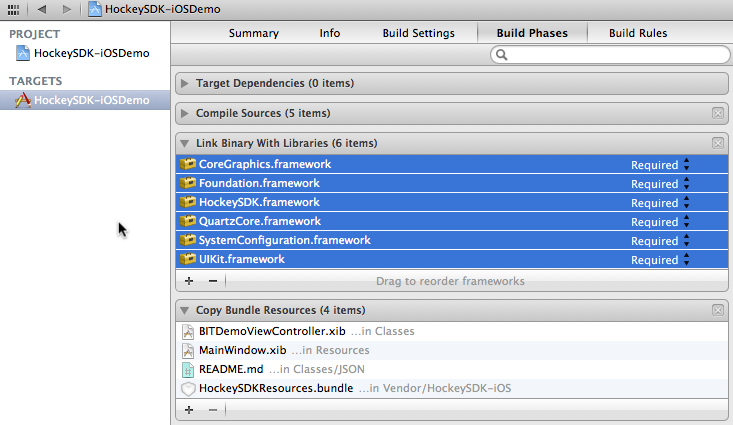
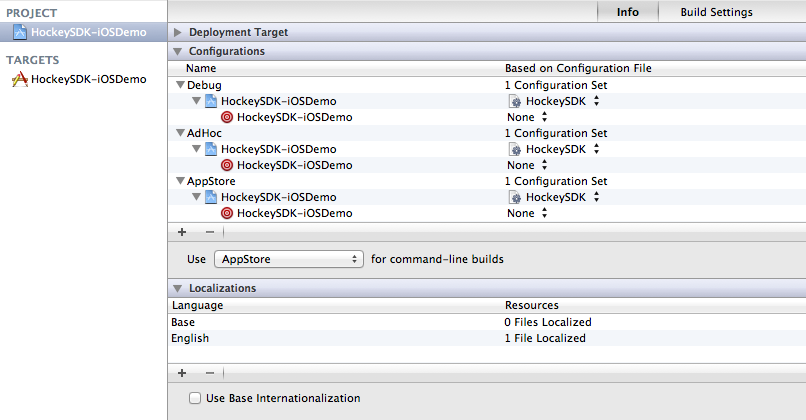
Update documentation

diff --git a/docs/Guide-Installation-Setup-template.md b/docs/Guide-Installation-Setup-template.md
@@ -16,7 +16,9 @@ This document contains the following sections:
 <a id="requirements"></a> 
 ## Requirements
 
-The SDK runs on devices with iOS 4.0 or higher.
+The SDK runs on devices with iOS 5.0 or higher.
+
+If you need support for iOS 4.x, please check out [HockeySDK v2.5.4](https://github.com/bitstadium/HockeySDK-iOS/downloads)
 
 If you need support for iOS 3.x, please check out [HockeyKit](http://support.hockeyapp.net/kb/client-integration/beta-distribution-on-ios-hockeykit) and [QuincyKit](http://support.hockeyapp.net/kb/client-integration/crash-reporting-on-ios-quincykit)
 
@@ -42,41 +44,24 @@ If you need support for iOS 3.x, please check out [HockeyKit](http://support.hoc
 
 4. Select your project in the `Project Navigator` (⌘+1).
 
-5. Select your target.
+5. Select your project.
 
-6. Select the tab `Summary`.
+6. Select the tab `Info`.
 
-7. Expand `Link Binary With Libraries`.
+7. Expand `Configurations`.
 
-8. The following entries should be present:
-    * CoreGraphics.framework
-    * Foundation.framework
-    * HockeySDK.framework
-    * QuartzCore.framework
-    * SystemConfiguration.framework
-    * UIKit.framework
+8. Select `HockeySDK.xcconfig` for all your configurations (if you don't already use a `.xcconfig` file)
     
     <img src="XcodeFrameworks1_normal.png"/>
 
-9. If one of the frameworks is missing, then click the + button, search the framework and confirm with the `Add` button.
+9. If you are already using a `.xcconfig` file, simply add the following line to it
 
-10. Remove `CrashReporter.framework` if present, and also remove if from the project by deleting it also from the filesystem
-
-11. Select `Build Settings`
-
-12. Search `Framework Search Paths`
-
-13. Make sure that the list does not contain a path pointing to the `QuincyKit` SDK or another framework that contains `PLCrashReporter`
+    `#include "../Vendor/HockeySDK/Support/HockeySDK.xcconfig"`
     
-    <img src="XcodeFrameworkSearchPath_normal.png"/>
+    (Adjust the path depending where the `Project.xcconfig` file is located related to the Xcode project package)
 
-14. HockeySDK-iOS also needs a JSON library. If your deployment target iOS 5.0 or later, then you don't have to do anything. If your deployment target is iOS 4.x, please include one of the following libraries:
-    * [JSONKit](https://github.com/johnezang/JSONKit)
-    * [SBJSON](https://github.com/stig/json-framework)
-    * [YAJL](https://github.com/gabriel/yajl-objc)
-
-
-<a id="modify"></a> 
+<a
+ id="modify"></a> 
 ## Modify Code
 
 1. Open your `AppDelegate.m` file.
@@ -101,7 +86,7 @@ If you need support for iOS 3.x, please check out [HockeyKit](http://support.hoc
 
 6. Replace `BETA_IDENTIFIER` with the app identifier of your beta app. If you don't know what the app identifier is or how to find it, please read [this how-to](http://support.hockeyapp.net/kb/how-tos/how-to-find-the-app-identifier). 
 
-7. Replace `LIVE_IDENTIFIER` with the app identifier of your release app.
+7. Replace `LIVE_IDENTIFIER` with the app identifier of your release app. We suggest to setup different apps on HockeyApp for your test and production builds. You usually will have way more test versions, but your production version usually has way more crash reports. This helps to keep data separated, getting a better overview and less trouble setting the right app versions downloadable for your beta users.
 
 <a id="udid"></a> 
 ## Submit the UDID
@@ -117,27 +102,7 @@ If you only want crash reporting, you can skip this step. If you want to use Hoc
       return nil;
     }
   
-The method only returns the UDID when the build is not targeted to the App Sore. This assumes that a preprocessor macro name CONFIGURATION_AppStore exists and is set for App Store builds. You can define the macro as follows:
-
-1. Select your project in the `Project Navigator` (⌘+1).
-
-2. Select your target.
-
-3. Select the tab `Build Settings`.
-
-4. Search for `preprocessor macros`
-
-    <img src="XcodeMacros1_normal.png"/>
-
-5. Select the top-most line and double-click the value field.
-
-6. Click the + button.
-
-7. Enter the following string into the input field and finish with "Done".<pre><code>CONFIGURATION_$(CONFIGURATION)</code></pre>
-
-    <img src="XcodeMacros2_normal.png"/>
-
-Now you can use `#if defined (CONFIGURATION_AppStore)` statements in your code. If your configurations have different names, please adjust the above use of `CONFIGURATION_AppStore`.
+The method only returns the UDID when the build is not targeted to the App Sore. This assumes that a preprocessor macro name CONFIGURATION_AppStore exists and is set for App Store builds. The macros are already defined in `HockeySDK.xcconfig`.
 
 <a id="mac"></a> 
 ## Mac Desktop Uploader
@@ -149,8 +114,4 @@ The Mac Desktop Uploader can provide easy uploading of your app versions to Hock
 
 This documentation provides integrated help in Xcode for all public APIs and a set of additional tutorials and HowTos.
 
-1. Download the latest [HockeySDK-iOS documentation](https://github.com/bitstadium/HockeySDK-iOS/downloads).
-
-2. Unzip the file. A new folder `HockeySDK-iOS-documentation` is created.
-
-3. Copy the content into ~`/Library/Developer/Shared/Documentation/DocSet`
+1. Copy `de.bitstadium.HockeySDK-iOS-3.0.0b1.docset` into ~`/Library/Developer/Shared/Documentation/DocSet`

diff --git a/docs/Guide-Installation-Setup-Advanced-template.md b/docs/Guide-Installation-Setup-Advanced-template.md
@@ -16,7 +16,9 @@ This document contains the following sections:
 <a id="requirements"></a> 
 ## Requirements
 
-The SDK runs on devices with iOS 4.0 or higher.
+The SDK runs on devices with iOS 5.0 or higher.
+
+If you need support for iOS 4.x, please check out [HockeySDK v2.5.4](https://github.com/bitstadium/HockeySDK-iOS/downloads)
 
 If you need support for iOS 3.x, please check out [HockeyKit](http://support.hockeyapp.net/kb/client-integration/beta-distribution-on-ios-hockeykit) and [QuincyKit](http://support.hockeyapp.net/kb/client-integration/crash-reporting-on-ios-quincykit)
 
@@ -52,44 +54,38 @@ If you need support for iOS 3.x, please check out [HockeyKit](http://support.hoc
 
 8. Select `Add Other...`.
 
-    <img src="XcodeFrameworks3_normal.png"/>
-    
 9. Select `CrashReporter.framework` from the `Vendor/HockeySDK/Vendor` folder
 
     <img src="XcodeFrameworks4_normal.png"/>
 
-10. The following entries should be present:
-	* `libHockeySDK.a`
-	* `CrashReporter.framework`
-	* `CoreGraphics.framework`
-    * `Foundation.framework`
-    * `QuartzCore.framework`
-    * `SystemConfiguration.framework`
-    * `UIKit.framework`
+10. Select `Build Settings`
 
-    <img src="XcodeFrameworks2_normal.png"/>
+11. Add the following `Header Search Path`
 
-11. Expand `Copy Bundle Resources`.
+    `$(SRCROOT)/Vendor/HockeySDK/Classes`
 
-12. Drag & Drop `HockeySDKResources.bundle` from the `Products` folder in `HockeySDK.xcodeproj`
+12. Create a new `Project.xcconfig` file, if you don't already have one (You can give it any name)
 
-    <img src="XcodeBundleResource1_normal.png"/>
+    a. Select your project.
 
-13. Select `Build Settings`
+    b. Select the tab `Info`.
 
-14. Search for `Header Search Paths`
+    c. Expand `Configurations`.
 
-15. Add a path to `$(SRCROOT)/Vendor/HockeySDK/Vendor` and make sure that the list does not contain a path pointing to the `QuincyKit` SDK or another framework that contains `PLCrashReporter`
+    d. Select `Project.xcconfig` for all your configurations
+    
+        <img src="XcodeFrameworks1_normal.png"/>
 
-    <img src="XcodeFrameworkSearchPath_normal.png"/>
+13. Open `Project.xcconfig` in the editor
 
-16. Hit `Done`.
+14. Add the following line:
 
-17. HockeySDK-iOS also needs a JSON library. If your deployment target iOS 5.0 or later, then you don't have to do anything. If your deployment target is iOS 4.x, please include one of the following libraries:
-	* [JSONKit](https://github.com/johnezang/JSONKit)
-	* [SBJSON](https://github.com/stig/json-framework)
-	* [YAJL](https://github.com/gabriel/yajl-objc)
+    `#include "../Vendor/HockeySDK/Support/HockeySDK.xcconfig"`
+    
+    (Adjust the path depending where the `Project.xcconfig` file is located related to the Xcode project package)
 	
+
+
 <a id="modify"></a> 
 ## Modify Code
 
@@ -115,7 +111,7 @@ If you need support for iOS 3.x, please check out [HockeyKit](http://support.hoc
 
 6. Replace `BETA_IDENTIFIER` with the app identifier of your beta app. If you don't know what the app identifier is or how to find it, please read [this how-to](http://support.hockeyapp.net/kb/how-tos/how-to-find-the-app-identifier). 
 
-7. Replace `LIVE_IDENTIFIER` with the app identifier of your release app.
+7. Replace `LIVE_IDENTIFIER` with the app identifier of your release app. We suggest to setup different apps on HockeyApp for your test and production builds. You usually will have way more test versions, but your production version usually has way more crash reports. This helps to keep data separated, getting a better overview and less trouble setting the right app versions downloadable for your beta users.
 
 <a id="udid"></a> 
 ## Submit the UDID
@@ -131,27 +127,7 @@ If you only want crash reporting, you can skip this step. If you want to use Hoc
       return nil;
     }
   
-The method only returns the UDID when the build is not targeted to the App Sore. This assumes that a preprocessor macro name CONFIGURATION_AppStore exists and is set for App Store builds. You can define the macro as follows:
-
-1. Select your project in the `Project Navigator` (⌘+1).
-
-2. Select your target.
-
-3. Select the tab `Build Settings`.
-
-4. Search for `preprocessor macros`
-
-    ![XcodeMacros1_normal.png](XcodeMacros1_normal.png)
-
-5. Select the top-most line and double-click the value field.
-
-6. Click the + button.
-
-7. Enter the following string into the input field and finish with "Done".<pre><code>CONFIGURATION_$(CONFIGURATION)</code></pre>
-
-    ![XcodeMacros2_normal.png](XcodeMacros2_normal.png)
-
-Now you can use `#if defined (CONFIGURATION_AppStore)` statements in your code. If your configurations have different names, please adjust the above use of `CONFIGURATION_AppStore`.
+The method only returns the UDID when the build is not targeted to the App Sore. This assumes that a preprocessor macro name CONFIGURATION_AppStore exists and is set for App Store builds. The macros are already defined in `HockeySDK.xcconfig`.
 
 <a id="mac"></a> 
 ## Mac Desktop Uploader

diff --git a/docs/Changelog-template.md b/docs/Changelog-template.md
@@ -1,3 +1,49 @@
+### Version 3.0.0b1
+
+- General:
+
+    - [NEW] Feedback component
+    - [NEW] Minimum iOS Deployment version is now iOS 5.0
+    - [NEW] Migrated to use ARC
+    - [UPDATE] Improved Xcode project setup to only use one static library
+    - [UPDATE] Providing build settings as `HockeySDK.xcconfig` file for easier setup
+    - [UPDATE] Using embedded.framework for binary distribution containing everything needed in one package
+    
+- Feedback:
+
+    - [NEW] User feedback interface for direct communication with your users
+    - [NEW] iOS 6 UIActivity component for integrating feedback
+
+- Updating:
+
+    - [NEW] Support for In-App updates without changing `CFBundleVersion`
+    - [UPDATE] Update UI modified to be more iOS 6 alike
+    - [UPDATE] Update UI shows the company name next to the app name if defined in the backend
+
+
+### Version 2.5.4
+
+- General:
+
+    - Declared as final release, since everything in 2.5.4b3 is working as expected
+
+### Version 2.5.4b3
+
+- General:
+
+    - [NEW] Atlassian JMC support disabled (Use subproject integration if you want it)
+
+### Version 2.5.4b2
+
+- Crash Reporting:
+
+    - [UPDATE] Migrate pre v2.5 auto send user setting
+    - [BUGFIX] The alert option 'Auto Send' did not persist correctly
+
+- Updating:
+
+    - [BUGFIX] Authorization option did not persist correctly and caused authorization to re-appear on every cold app start
+
 ### Version 2.5.4b1
 
 - General:
